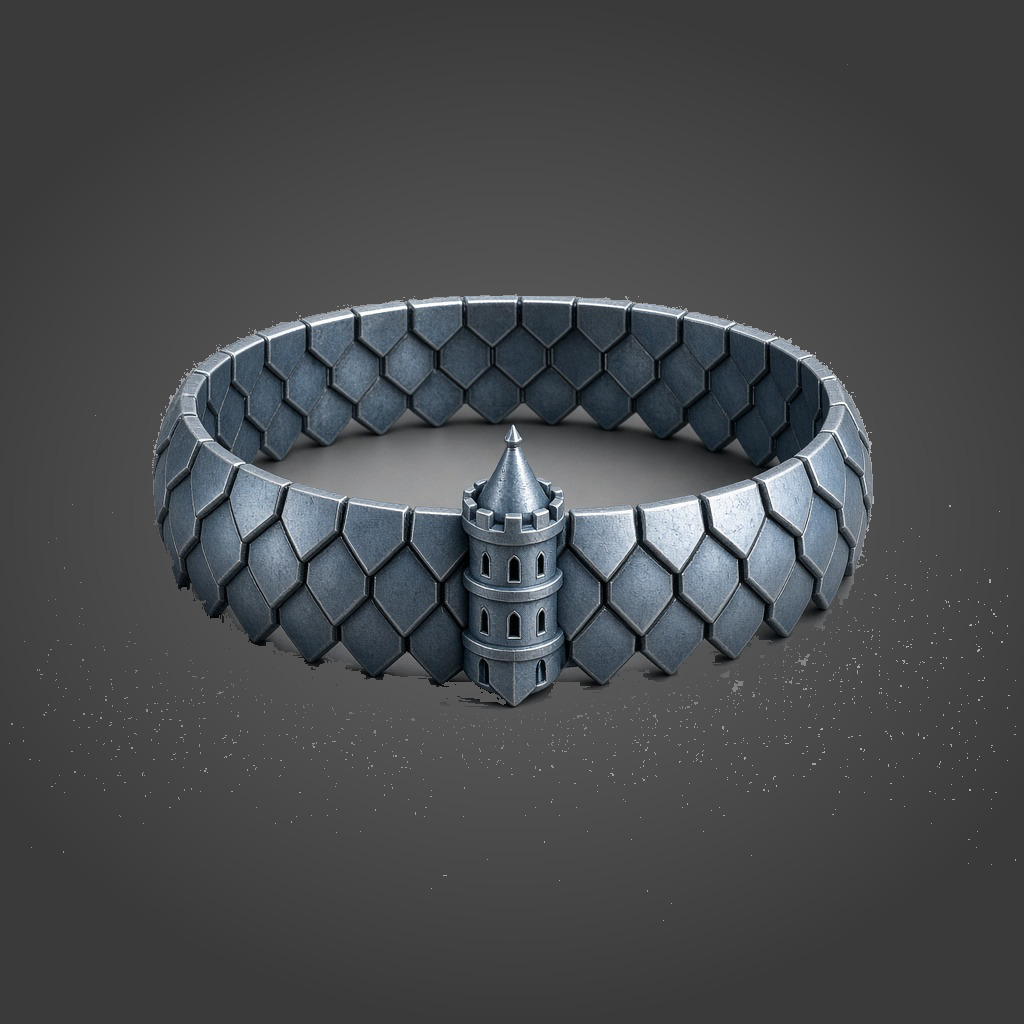
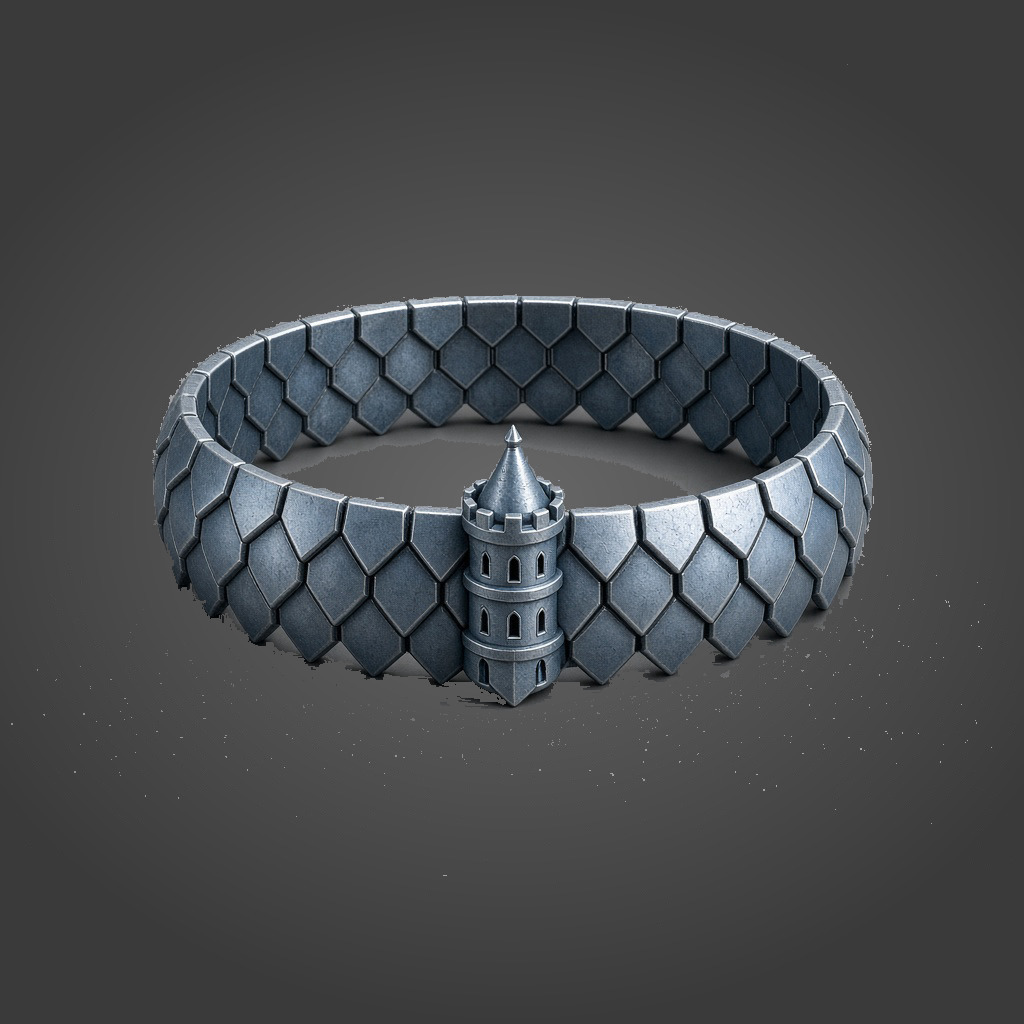
Match the gray inside the guard bracelet to the other equipment photos.

Changed region(s): [[0.2812, 0.4375, 0.6562, 0.5]]

diff --git a/index.html b/index.html
@@ -6779,7 +6779,7 @@
       { id: "chain-attack", name: "連撃の腕輪", slot: "braceletAny", stars: 4, effect: "★★★★　手札に攻撃がないとき、山札から攻撃カードを引く。アクセサリー枠。", image: "gear-chain-attack.jpg?v=6" },
       { id: "chain-guard", name: "連守の腕輪", slot: "braceletAny", stars: 4, effect: "★★★★　手札に防御がないとき、山札から防御カードを引く。アクセサリー枠。", image: "gear-chain-guard.jpg?v=6" },
       { id: "power-bracelet", name: "力の腕輪", slot: "braceletAny", stars: 2, atk: 3, effect: "★★　アクセサリー。ATK+3", image: "gear-power-bracelet.jpg?v=5" },
-      { id: "guard-bracelet", name: "守りの腕輪", slot: "braceletAny", stars: 2, def: 3, effect: "★★　アクセサリー。DEF+3", image: "gear-guard-bracelet.jpg?v=6" },
+      { id: "guard-bracelet", name: "守りの腕輪", slot: "braceletAny", stars: 2, def: 3, effect: "★★　アクセサリー。DEF+3", image: "gear-guard-bracelet.jpg?v=7" },
       { id: "reuse-bracelet", name: "再利用の腕輪", slot: "braceletAny", stars: 3, carryMana: true, effect: "★★★　使わなかったマナを次のターンへ持ち越す。持ち越し分はオレンジの一時マナで、使うと空枠を残さず消える", image: "gear-reuse-bracelet.jpg?v=6" },
     ];
     // ボスの報酬だけで手に入る。ランダムな装備には入れない。レアリティ欄は「ボス」。
@@ -10054,7 +10054,7 @@
               ${sheetFig("gear-chain-attack.jpg?v=6", "連撃の腕輪")}
               ${sheetFig("gear-chain-guard.jpg?v=6", "連守の腕輪")}
               ${sheetFig("gear-power-bracelet.jpg?v=5", "力の腕輪")}
-              ${sheetFig("gear-guard-bracelet.jpg?v=6", "守りの腕輪")}
+              ${sheetFig("gear-guard-bracelet.jpg?v=7", "守りの腕輪")}
               ${sheetFig("gear-reuse-bracelet.jpg?v=6", "再利用の腕輪")}
               ${sheetFig("gear-bracelet.jpg?v=3", "ミノタウロスの腕輪")}
               ${sheetFig("gear-medal.jpg?v=2", "メダル")}
